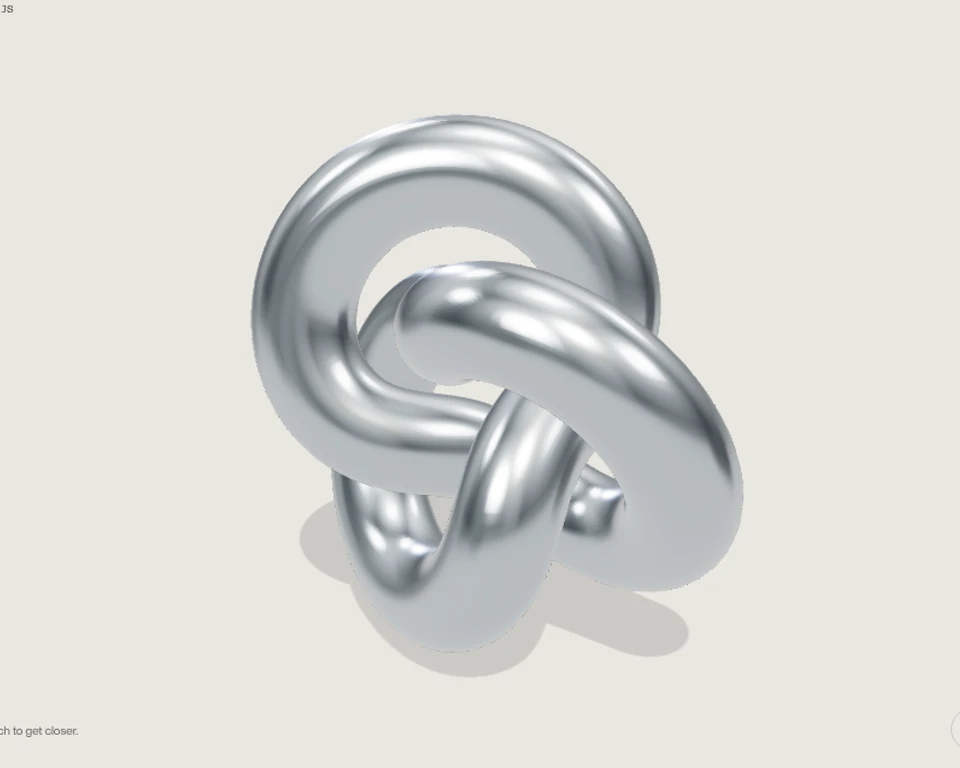
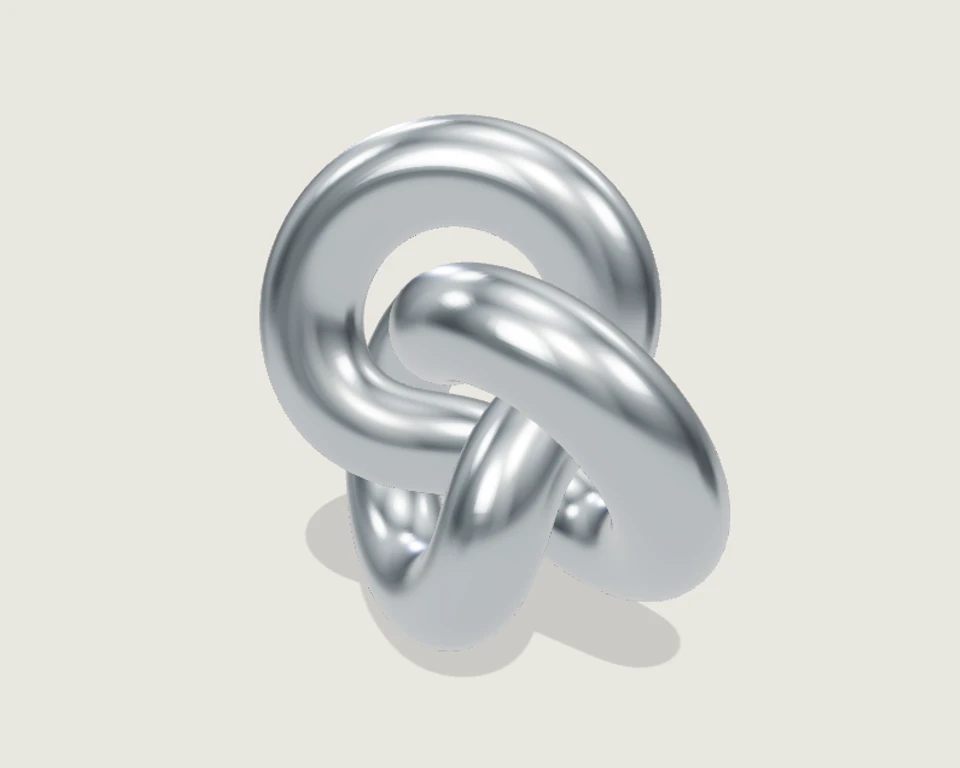
Polish live sequencer feedback and clean project previews

diff --git a/src/components/immersive/Pulse.tsx b/src/components/immersive/Pulse.tsx
@@ -95,7 +95,7 @@ export default function Pulse() {
     audio.current?.setVolume(volume / 100)
   }, [volume])
 
-  useGSAP(
+  const { contextSafe } = useGSAP(
     () => {
       if (reduced) return
       gsap
@@ -121,21 +121,24 @@ export default function Pulse() {
     { scope: root, dependencies: [reduced], revertOnUpdate: true },
   )
 
-  useGSAP(
-    () => {
-      if (reduced || step < 0) return
-      const targets = root.current?.querySelectorAll(
-        `.pulse-step[data-step="${step}"][aria-pressed="true"]`,
-      )
-      if (targets?.length)
-        gsap.fromTo(
-          targets,
-          { scale: 0.84 },
-          { scale: 1, duration: 0.3, ease: 'back.out(2)', overwrite: true },
-        )
-    },
-    { scope: root, dependencies: [step], revertOnUpdate: true },
-  )
+  useEffect(() => {
+    if (reduced || step < 0) return
+    const targets = root.current?.querySelectorAll(
+      `.pulse-step[data-step="${step}"][aria-pressed="true"]`,
+    )
+    if (!targets?.length) return
+    const tween = gsap.fromTo(
+      targets,
+      { scale: 0.84 },
+      { scale: 1, duration: 0.3, ease: 'back.out(2)', overwrite: 'auto' },
+    )
+    // A new step finishes the preceding pulse at rest. Reverting a GSAP context here
+    // would restore a partially animated key-press transform every time the beat changes.
+    return () => {
+      tween.kill()
+      gsap.set(targets, { scale: 1 })
+    }
+  }, [step, reduced])
 
   const togglePlayback = async () => {
     if (!audio.current) return
@@ -160,7 +163,7 @@ export default function Pulse() {
       setStarting(false)
     }
   }
-  const toggleStep = (track: number, index: number, button: HTMLButtonElement) => {
+  const toggleStep = contextSafe((track: number, index: number, button: HTMLButtonElement) => {
     setPattern((previous) =>
       previous.map((row, r) =>
         r === track ? row.map((value, c) => (c === index ? !value : value)) : row,
@@ -171,9 +174,9 @@ export default function Pulse() {
       gsap.fromTo(
         button,
         { scale: 0.7, rotate: -8 },
-        { scale: 1, rotate: 0, duration: 0.6, ease: 'elastic.out(1, .5)', overwrite: true },
+        { scale: 1, rotate: 0, duration: 0.6, ease: 'elastic.out(1, .5)', overwrite: 'auto' },
       )
-  }
+  })
   const navigateSteps = (event: KeyboardEvent<HTMLButtonElement>, row: number, column: number) => {
     let nextRow = row,
       nextColumn = column

diff --git a/tests/e2e/immersive.spec.ts b/tests/e2e/immersive.spec.ts
@@ -176,6 +176,16 @@ test('Pulse starts only on request, plays a clocked pattern, mutes, stops, and c
   await expect(page.getByRole('button', { name: 'Stop loop', exact: true })).toBeVisible()
   await expect(page.locator('.pulse-step[data-current="true"]')).toHaveCount(4)
   expect(await contextCount()).toBe(1)
+  const editedKey = page.getByRole('button', { name: 'Kick step 2', exact: true })
+  await editedKey.click()
+  await expect
+    .poll(() =>
+      editedKey.evaluate((button) => {
+        const matrix = new DOMMatrix(getComputedStyle(button).transform)
+        return Math.abs(matrix.b) + Math.abs(matrix.c)
+      }),
+    )
+    .toBeLessThan(0.001)
   await page.getByRole('button', { name: 'Mute Kick', exact: true }).click()
   await expect(page.getByRole('button', { name: 'Mute Kick', exact: true })).toHaveAttribute(
     'aria-pressed',
@@ -186,6 +196,22 @@ test('Pulse starts only on request, plays a clocked pattern, mutes, stops, and c
   await page.getByRole('button', { name: 'Scatter particles', exact: true }).click()
   await page.getByRole('button', { name: 'Stop loop', exact: true }).click()
   await expect(page.locator('.pulse-step[data-current="true"]')).toHaveCount(0)
+  await expect
+    .poll(() =>
+      page.locator('.pulse-step').evaluateAll((buttons) =>
+        buttons.every((button) => {
+          const matrix = new DOMMatrix(getComputedStyle(button).transform)
+          return (
+            Math.abs(matrix.a - 1) +
+              Math.abs(matrix.b) +
+              Math.abs(matrix.c) +
+              Math.abs(matrix.d - 1) <
+            0.001
+          )
+        }),
+      ),
+    )
+    .toBe(true)
   await page.getByRole('button', { name: 'Play loop', exact: true }).click()
   await page
     .getByRole('link', { name: /Explore Matter/ })

diff --git a/src/components/Playground.tsx b/src/components/Playground.tsx
@@ -1,5 +1,7 @@
 import Link from 'next/link'
 import Image from 'next/image'
+import matterPreview from '../../public/assets/playground/matter-preview.webp'
+import pulsePreview from '../../public/assets/playground/pulse-preview.webp'
 import { tools } from '@/data/tools'
 import { immersive } from '@/data/immersive'
 import { experiments } from '@/data/experiments'
@@ -61,7 +63,7 @@ function ToolPreview({ kind }: { kind: string }) {
     return (
       <div className={`immersive-card-preview preview-${kind}`} aria-hidden="true">
         <Image
-          src={`/assets/playground/${kind}-preview.webp`}
+          src={kind === 'matter' ? matterPreview : pulsePreview}
           alt=""
           fill
           sizes="(max-width: 600px) 100vw, (max-width: 1000px) 50vw, 33vw"

diff --git a/docs/verification.md b/docs/verification.md
@@ -59,3 +59,4 @@ The Docker configuration is updated but a container image was not built during t
 - The original six utilities and their shared shell/content are unchanged, as are homepage, loader, header/footer, fonts, SVGs, and gallery. The collection now features six utilities plus the two new projects; all three earlier studies remain linked separately.
 - Three.js is the only new runtime package. Its studio environment is generated locally and both projects load dynamically for their own routes. New collection previews are optimized captures of the running scenes.
 - Final desktop/mobile production captures are saved locally under ignored `artifacts/immersive/`. Physical-device, Safari/Firefox, and Vercel deployment checks are outside this verification.
+- Final polish: five targeted production tests passed again after correcting overlapping live-edit/beat transforms and replacing the two previews with clean drawing-buffer captures. The new assertion checks that edited keys settle upright and every key returns to rest when playback stops.
